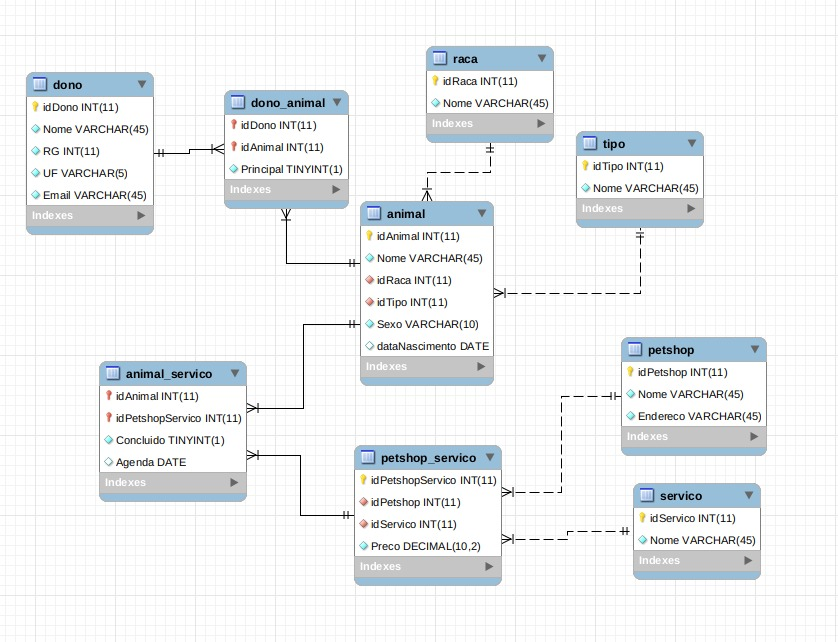
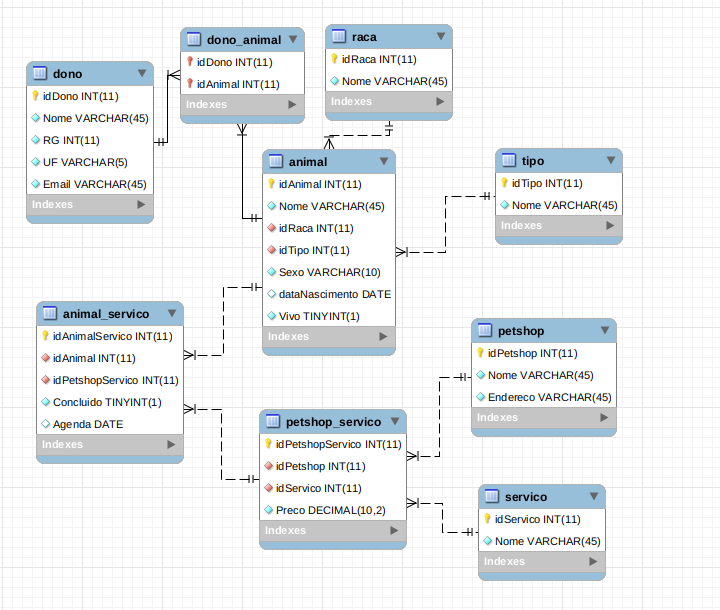
stored view temp

diff --git a/backend/routes/petsServices.js b/backend/routes/petsServices.js
@@ -22,6 +22,17 @@ router.get('/animal/servico/pending', function(req, res, next) {
   })
 });
 
+//Temporary Table
+router.get('/animal/servico/top5', function(req, res, next) {
+  connection.query('SELECT * FROM animal_top5', function (err, results, fields) {
+    if (err) {
+      res.status(500).send(err);
+      return console.log(err);
+    }
+    res.status(200).send(results)
+  });
+});
+
 router.get('/animal/servico/pending/:idAnimal', function(req, res, next) {
   var params = req.params.idAnimal;
   connection.query('SELECT *, petshop.Nome as nomePetshop, servico.Nome as nomeServico FROM animal_servico INNER JOIN petshop_servico USING (idPetshopServico) INNER JOIN petshop USING (idPetshop) INNER JOIN servico USING (idServico) WHERE Concluido=0 and idAnimal=?', params, function (err, results, fields) {
@@ -44,9 +55,10 @@ router.get('/animal/servico/complete/:idAnimal', function(req, res, next) {
   })
 });
 
+//Stored function
 router.get('/animal/servico/sum/:idAnimal', function(req, res, next) {
   var params = req.params.idAnimal;
-  connection.query('SELECT SUM(Preco) as num FROM animal_servico INNER JOIN petshop_servico USING (idPetshopServico) WHERE Concluido=1 and idAnimal=?', params, function (err, results, fields) {
+  connection.query('SELECT sumServices(1,?) as num', params, function (err, results, fields) {
       if (err) {
         res.status(500).send(err);
         return console.log(err);
@@ -55,9 +67,32 @@ router.get('/animal/servico/sum/:idAnimal', function(req, res, next) {
   })
 });
 
+//Substituido pela funcao sumServices
+// router.get('/animal/servico/sum/:idAnimal', function(req, res, next) {
+//   var params = req.params.idAnimal;
+//   connection.query('SELECT IFNULL(SUM(Preco), 0.0) as num FROM animal_servico INNER JOIN petshop_servico USING (idPetshopServico) WHERE Concluido=1 and idAnimal=?', params, function (err, results, fields) {
+//       if (err) {
+//         res.status(500).send(err);
+//         return console.log(err);
+//       }
+//     res.status(200).send(results[0])
+//   })
+// });
+
+//View
+router.get('/animal/servico/sum/petshop/all', function(req, res, next) {
+  connection.query('SELECT * FROM petshopSum', function(err, results, fields) {
+    if (err) {
+      res.status(500).send(err);
+      return console.log(err);
+    }
+    res.status(200).send(results)
+  })
+});
+
 router.get('/animal/servico/sum/petshop/:idPetshop', function(req, res, next) {
   var params = req.params.idPetshop;
-  connection.query('SELECT SUM(Preco) as num FROM animal_servico INNER JOIN petshop_servico USING (idPetshopServico) WHERE Concluido=1 and idPetshop=?', params, function (err, results, fields) {
+  connection.query('SELECT IFNULL(SUM(Preco), 0.0) as num FROM animal_servico INNER JOIN petshop_servico USING (idPetshopServico) WHERE Concluido=1 and idPetshop=?', params, function (err, results, fields) {
       if (err) {
         res.status(500).send(err);
         return console.log(err);
@@ -67,9 +102,10 @@ router.get('/animal/servico/sum/petshop/:idPetshop', function(req, res, next) {
 });
 
 //sem testar
+// Front: busca petshop por nome (seleciona e pega o idPetshop), busca serviços (seleciona e pega o idServiço)
 router.post('/animal/servico', function(req, res, next) {
-  var post = req.body;
-  connection.query('INSERT INTO animal_servico (idAnimal ,idPetshopServico, Concluido, Agenda) VALUES ((SELECT idAnimal FROM animal WHERE Nome=?),(SELECT idServico FROM servico WHERE Nome=?),0,?)', post.nomeAnimal,post.nomeServico,post.agenda, function (err, results, fields) {
+  var post = [req.body.idAnimal, req.body.nomePetshop, req.body.nomeServico,req.body.Agenda];
+  connection.query('INSERT INTO animal_servico (idAnimal, idPetshopServico, Concluido, Agenda) VALUES (?, (SELECT idPetshopServico FROM petshop_servico WHERE idPetshop=(SELECT idPetshop from petshop WHERE Nome=?) AND idServico=(SELECT idServico from servico where Nome=?) limit 1),0,?)', post, function (err, results, fields) {
       if (err) {
         res.status(500).send(err);
         return console.log(err);
@@ -78,17 +114,27 @@ router.post('/animal/servico', function(req, res, next) {
   })
 });
 
-//sem testar
-router.put('/animal/servico', function(req, res, next) {
-  var put = [req.body.Concluido,req.body.Agenda,req.body.nomePetshop,req.body.nomeServico,req.body.nomeAnimal];
-  connection.query('UPDATE TABLE animal_servico SET Concluido=?, Agenda=? WHERE idPetshopServico=(SELECT idPetshopServico FROM petshop_servico WHERE idPetshop=(SELECT idPetshop WHERE nome=?) and idServico=(SELECT idServico FROM servico WHERE Nome=?)) and idAnimal=(SELECT idAnimal FROM animal WHERE Nome=?)', put, function (err, results, fields) {
-      if (err) {
-        res.status(500).send(err);
-        return console.log(err);
-      }
-    res.status(201).send({message: "Preco atualizado com sucesso!"})
-  })
-});
+// router.put('/animal/servico', function(req, res, next) {
+//   var put = [req.body.Concluido,req.body.Agenda,req.body.nomePetshop,req.body.nomeServico,req.body.nomeAnimal];
+//   connection.query('UPDATE animal_servico SET Concluido=?, Agenda=? WHERE idPetshopServico=(SELECT idPetshopServico FROM petshop_servico WHERE idPetshop=(SELECT idPetshop WHERE nome=?) and idServico=(SELECT idServico FROM servico WHERE Nome=?)) and idAnimal=(SELECT idAnimal FROM animal WHERE Nome=?)', put, function (err, results, fields) {
+//       if (err) {
+//         res.status(500).send(err);
+//         return console.log(err);
+//       }
+//     res.status(201).send({message: "Servico concluido com sucesso!"})
+//   })
+// });
+
+router.put('/animal/servico/close', function(req, res, next) {
+    var put = [req.body.idAnimalServico];
+    connection.query('UPDATE animal_servico SET Concluido=1 WHERE idAnimalServico=? ', put, function (err, results, fields) {
+        if (err) {
+          res.status(500).send(err);
+          return console.log(err);
+        }
+      res.status(201).send({message: "Servico concluido com sucesso!"})
+    })
+  });
 
 //sem testar
 router.delete('/animal/servico', function(req, res, next) {

diff --git a/backend/routes/petshopsServices.js b/backend/routes/petshopsServices.js
@@ -25,25 +25,36 @@ router.get('/petshop/servico/', function(req, res, next) {
 });
 
 router.post('/petshop/servico', function(req, res, next) {
-  var post_servico = [req.body.nomeServico];
-  var post_servico_petshop = [req.body.idPetshop, req.body.nomeServico, req.body.Preco]
-  connection.query('INSERT INTO servico (Nome) VALUES (?)', post_servico, function (err, results, fields) {
+  var post = [req.body.nomeServico,req.body.idPetshop , req.body.Preco]
+  connection.query('CALL createPetshopService(?,?,?)', post, function (err, results, fields) {
     if (err) {
-      console.log("DEU ERRO NO PRIMEIRO");
-      
       res.status(500).send(err);
       return console.log(err);
     }
-    connection.query('INSERT INTO petshop_servico (idPetshop, idServico, Preco) VALUES (?,(SELECT MAX(idServico) FROM servico WHERE Nome=?), ?)', post_servico_petshop, function (err, results, fields) {
-      if (err) {
-        console.log("DEU ERRO NO SEGUNDO");
-        res.status(500).send(err);
-        return console.log(err);
-      }
-    });
+    console.log(results);
     res.status(201).send({message: "Servico cadastrado e vinculado ao petshop com sucesso!"});
-  });
+  })
 });
+
+
+// Alterado para o de cima com o CALL createPetshopService
+// router.post('/petshop/servico', function(req, res, next) {
+//   var post_servico = [req.body.nomeServico];
+//   var post_servico_petshop = [req.body.idPetshop, req.body.nomeServico, req.body.Preco]
+//   connection.query('INSERT INTO servico (Nome) VALUES (?)', post_servico, function (err, results, fields) {
+//     if (err) {
+//       res.status(500).send(err);
+//       return console.log(err);
+//     }
+//     connection.query('INSERT INTO petshop_servico (idPetshop, idServico, Preco) VALUES (?,(SELECT MAX(idServico) FROM servico WHERE Nome=?), ?)', post_servico_petshop, function (err, results, fields) {
+//       if (err) {
+//         res.status(500).send(err);
+//         return console.log(err);
+//       }
+//     });
+//     res.status(201).send({message: "Servico cadastrado e vinculado ao petshop com sucesso!"});
+//   });
+// });
 
 router.put('/petshop/servico', function(req, res, next) {
   var get = [req.body.nomeServico, req.body.idPetshop];

diff --git a/backend/connection.js b/backend/connection.js
@@ -3,12 +3,19 @@ var mysql = require('mysql')
 var connection = mysql.createConnection({
   host     : 'localhost',
   user     : 'root',
-  password : '1234',
+  password : 'Tirt@258789',
   database : 'petshop'
 });
 
 connection.connect(function(err) {
     if (err) throw err;
+    connection.query('CREATE OR REPLACE VIEW petshopSum AS SELECT SUM(Preco) AS num, Nome FROM animal_servico INNER JOIN petshop_servico USING (idPetshopServico) INNER JOIN petshop USING (idPetshop) WHERE Concluido=1 GROUP BY idPetshop', function (err, results, fields) {
+      if (err) throw err;
+    });
+
+    connection.query('CREATE TEMPORARY TABLE animal_top5 SELECT *, IFNULL(SUM(Preco), 0.0) as receita, animal.Nome as nomeAnimal FROM animal_servico INNER JOIN petshop_servico USING (idPetshopServico) INNER JOIN animal USING (idAnimal) WHERE Vivo=1 group by idAnimal order by receita DESC limit 5', function (err, results, fields) {
+      if (err) throw err;
+    });
 });
 
 module.exports = connection;

diff --git a/backend/routes/pets.js b/backend/routes/pets.js
@@ -61,9 +61,8 @@ router.post('/animal', function(req, res, next) {
       });
     });
   } catch (error) {
-    console.log(error);
     res.status(500).send({message: "Erro interno de servidor"});
-    return next(err);
+    return console.log(error);;
   }
 });
 
